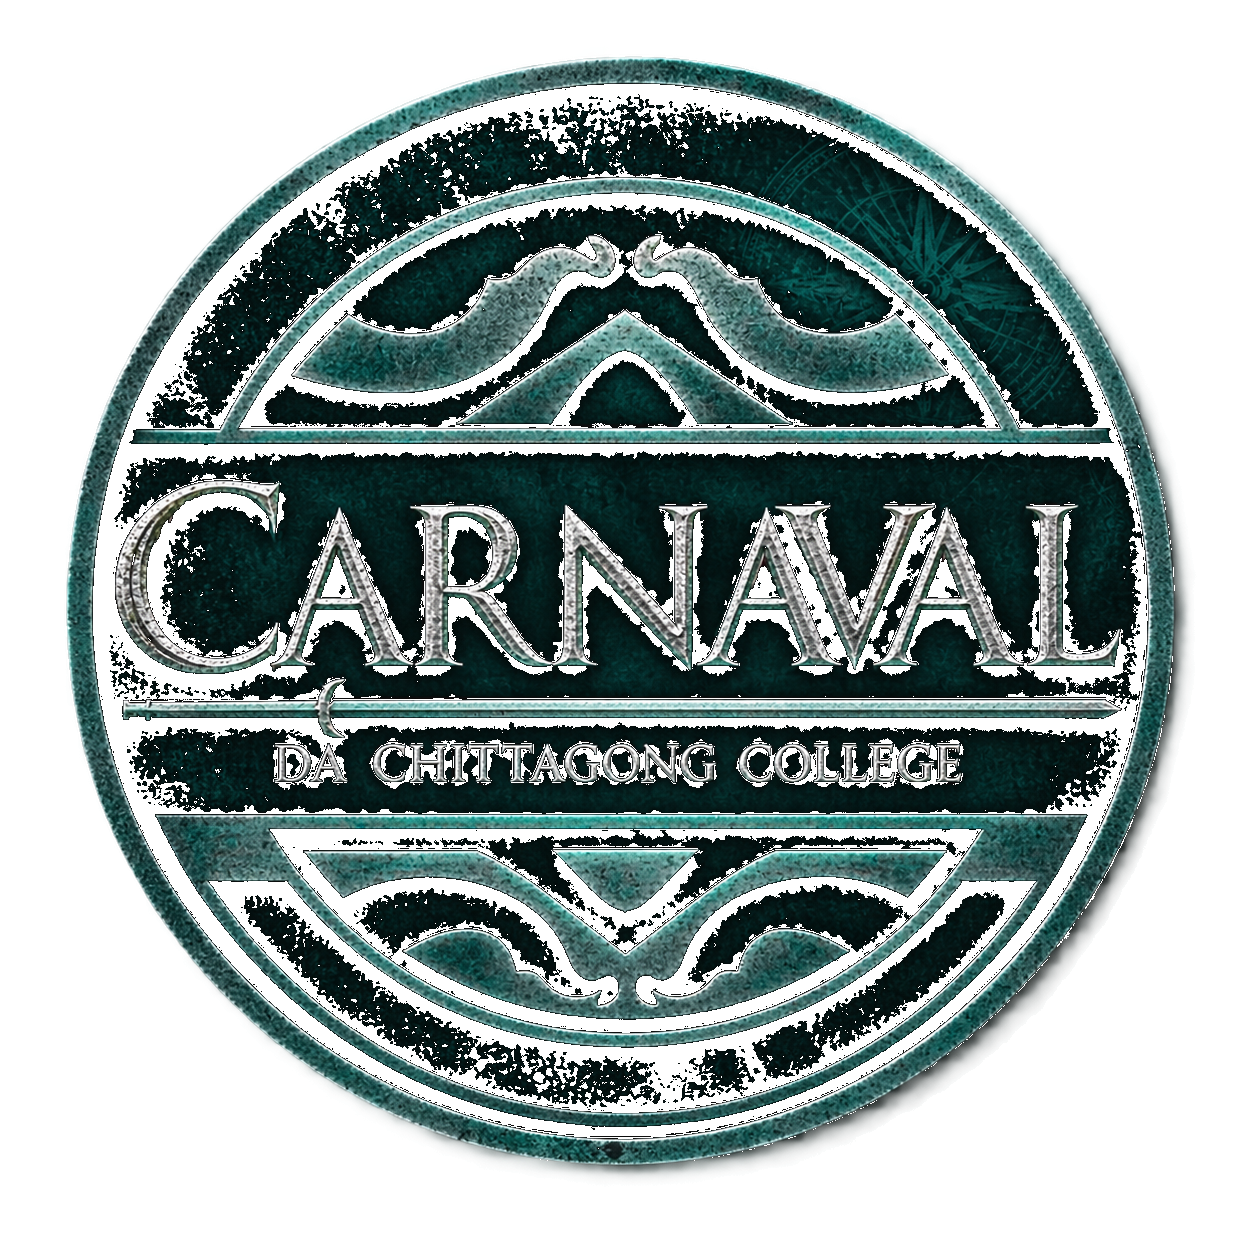
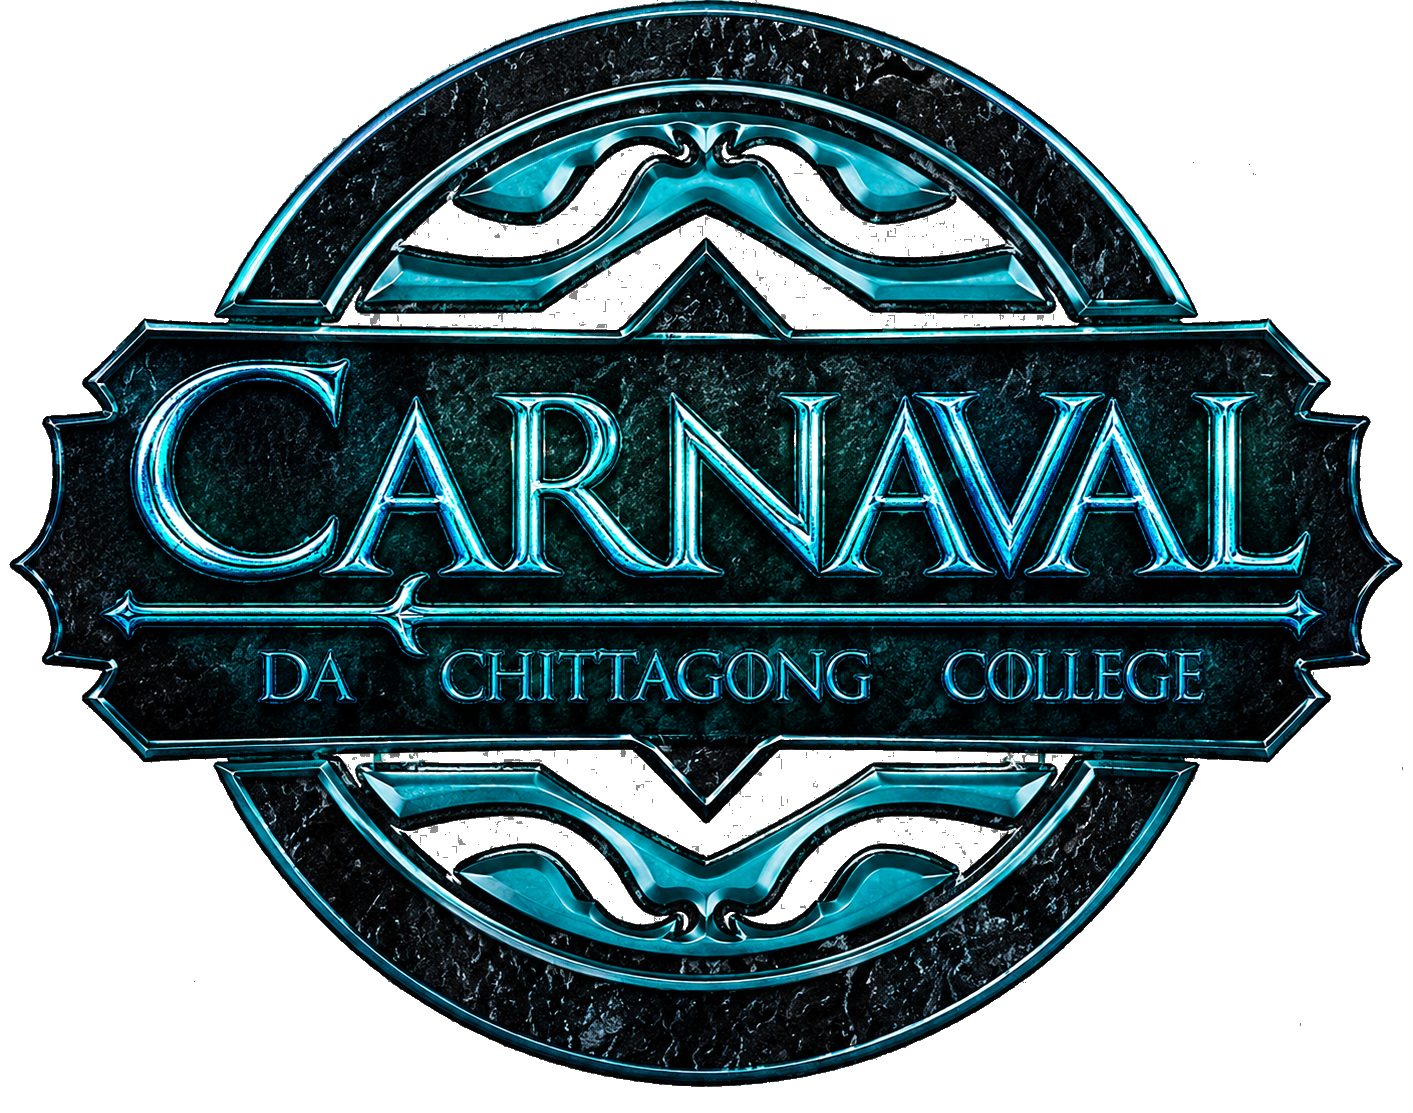
85th update

diff --git a/src/components/Navbar.tsx b/src/components/Navbar.tsx
@@ -53,10 +53,10 @@ export const Navbar: React.FC<NavbarProps> = ({
             {/* Brand Logo & Sigil */}
             <button
               onClick={() => handleNavClick('home')}
-              className="flex items-center gap-3 text-left shrink-0 focus:outline-none"
+              className="flex items-center gap-1.5 sm:gap-3 text-left shrink-0 focus:outline-none"
             >
               <img src="/images/college-crest.webp" alt="Chittagong College crest" className="h-9 md:h-10 w-auto" />
-              <span className="font-got text-base md:text-lg tracking-wide text-gold-2">CARNAVAL</span>
+              <span className="font-cinzel-dec text-sm sm:text-base md:text-lg tracking-wide text-[#5bc9d6] drop-shadow-[0_0_12px_rgba(91,201,214,0.6)]">CARNAVAL</span>
             </button>
 
             {/* Right Action Icons */}

diff --git a/src/index.css b/src/index.css
@@ -1929,7 +1929,13 @@
 }
 /* tablets & desktop: pad inward so emblem doesn't collide with screen edges */
 @media (min-width: 768px) {
-  .cl-stage { inset: 4vh 8vw; width: auto; height: auto; }
+  .cl-stage { inset: 4vh 8vw; width: auto; height: auto; transform: scale(1.1); }
+}
+/* mobile: zoom the emblem in more so it fills the screen */
+@media (max-width: 767px) {
+  .cl-stage {
+    transform: scale(1.3);
+  }
 }
 
 .cl-emblem,
